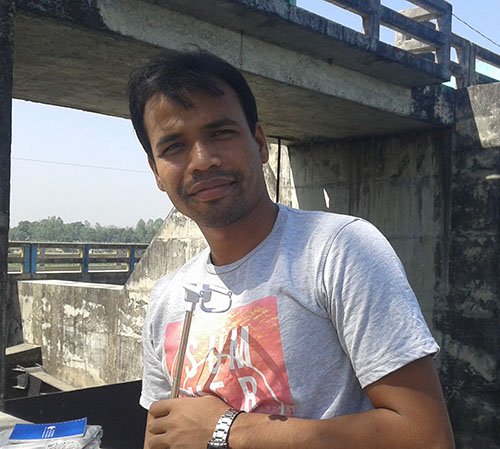
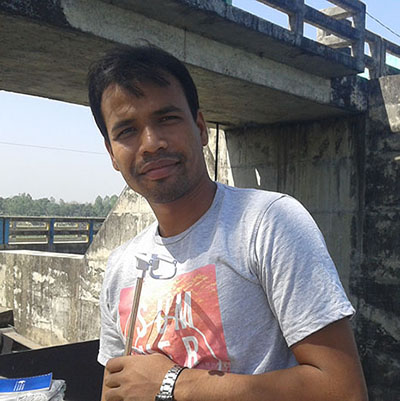
Modify css

diff --git a/index.html b/index.html
@@ -31,7 +31,7 @@
 						<span class="icon-bar"></span>
 						<span class="icon-bar"></span>
 					</button>
-				  <a class="navbar-brand" href="#">Brand</a>
+				  <a class="navbar-brand" href="index.html">Lifeatcode</a>
 				</div>
 				<!-- Collect the nav links, forms, and other content for toggling -->
 				<div class="collapse navbar-collapse" id="menuExpaned">
@@ -52,16 +52,23 @@
 				</div>
 			</div>
 		</section>
-		
 		<section id="about">
 			<div class="container">
 				<div class="row">
 					<div class="col-md-4 vubon">
-						<img src="images/vubon_roy.jpg" alt="Vubon Roy" class="img-circle" />
+						<div class="card">
+							<div class="side"><img src="images/vubon_roy.jpg" alt="Vubon Roy" class="img-circle" /></div>
+							<div class="side back">
+								<h2>Vubon Roy <br/><span style="font-size:14px;">Web Developer</span></h2>
+							</div>
+						</div>
 					</div>
-					<div class="col-md-8">
-						<h2>Hello... <strong>I'm Vubon Roy</strong></h2>
-						<p>I'm a front-end & back-end developer. Graduate of Mathematics subject.But I am playing with computer long time. Since when I was class 9.I have 2 years commercial experiece working with buyers from around the world. I am providing responsive web app of front-end and back-end both sides.</p>
+					<div class="col-md-7 col-md-offset-1">
+						<blockquote>
+							<h2>Hello... <strong>I'm Vubon Roy</strong></h2>
+							<p>I'm a front-end & back-end developer. Graduate of Mathematics subject. But I am playing with computer programming since long time ago. Since when I was class 9. I have 2 years commercial experiece working with buyers from around the world. I am providing responsive web app of front-end and back-end both sides.</p>
+							<p>I like to play with Java programming language and build up Android apps.</p>
+						</blockquote>
 					</div>
 				</div>
 			</div>
@@ -81,7 +88,7 @@
 					<div class="row">
 						<div class="col-md-12 col-sm-12 text-center">
 							<div class="btn_contact">
-								<a class="btn btn-default btn-lg" href="#" target="_blank">Upwork</a>
+								<a class="btn btn-default btn-lg" href="https://www.upwork.com/freelancers/~0188b7ca06bed14aa5" target="_blank">Upwork</a>
 								<a class="btn btn-default btn-lg" href="mailto:vubon.roy@gmail.com" target="_blank">Contact</a>
 							</div>
 						</div>

diff --git a/css/custom.css b/css/custom.css
@@ -37,11 +37,49 @@
 
 /* About us
 ==================================================================== */
-
-
-.vubon img{
-	width:70%;
+#about{padding:40px;}
+.vubon{
+	height: 300px;
+	perspective: 600;
+	position: relative;
+	width: 300px;
 }
+.card {
+  height: 100%;
+  position: absolute;
+  transform-style: preserve-3d;
+  transition: all 1s ease-in-out;
+  width: 100%;
+}
+.card:hover {
+  transform: rotateY(180deg);
+}
+.card .side {
+  backface-visibility: hidden;
+  height: 95%;
+  position: absolute;
+  width: 95%;
+  border-radius:50%;
+}
+.card .back {
+	background: #eaeaed;
+	color: #0087cc;
+	line-height: 150px;
+	text-align: center;
+	transform: rotateY(180deg);
+}
+.back h2{
+	padding-top:40%;
+}
+.vubon img{
+	width:95%;
+	border:5px solid #6633cc;
+}
+
+blockquote{
+	border-left:8px solid #6633cc;
+}
+
 
 /* Contact us
 ==================================================================== */
